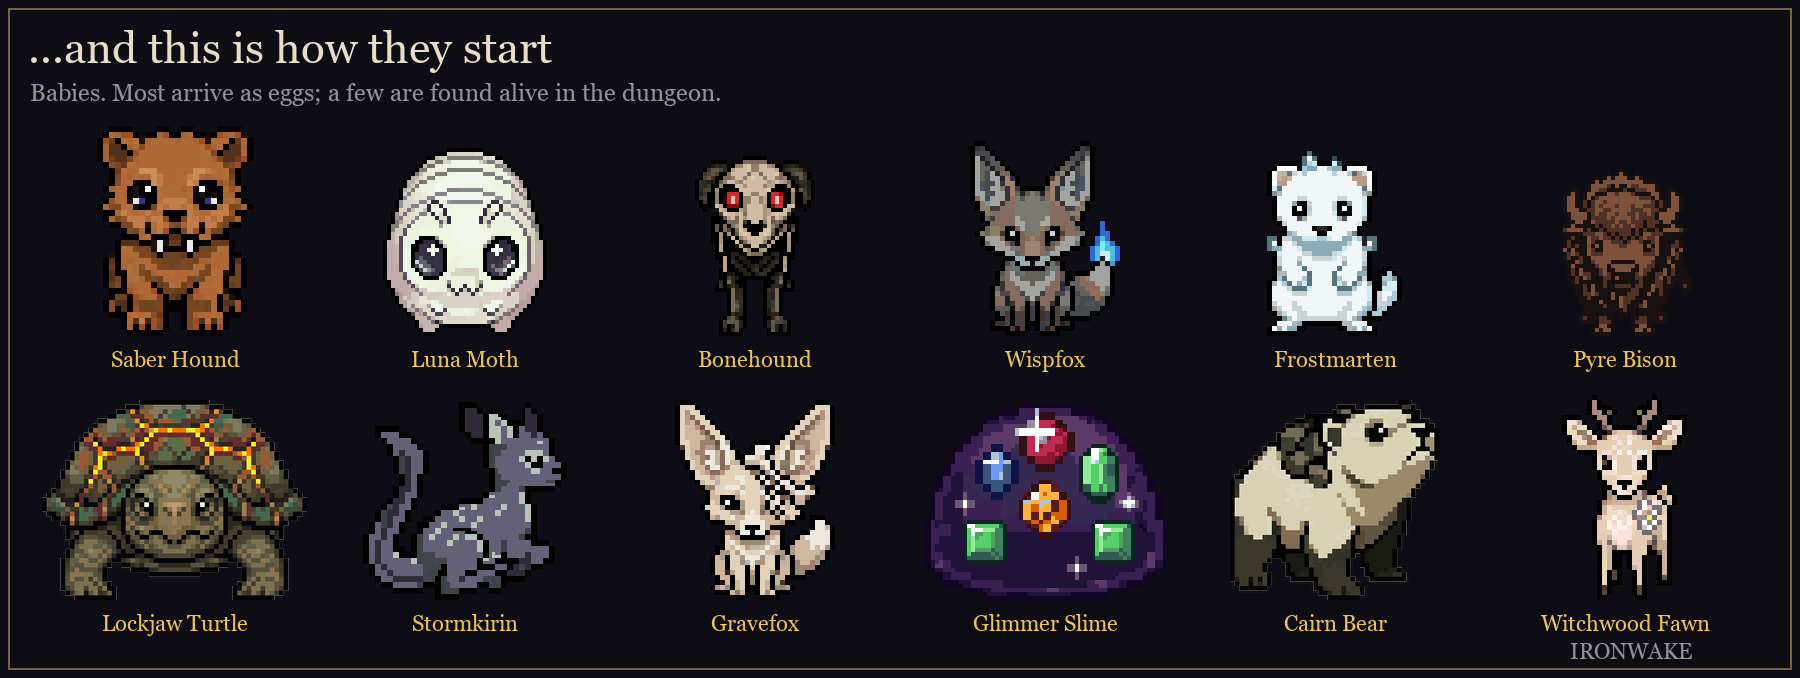
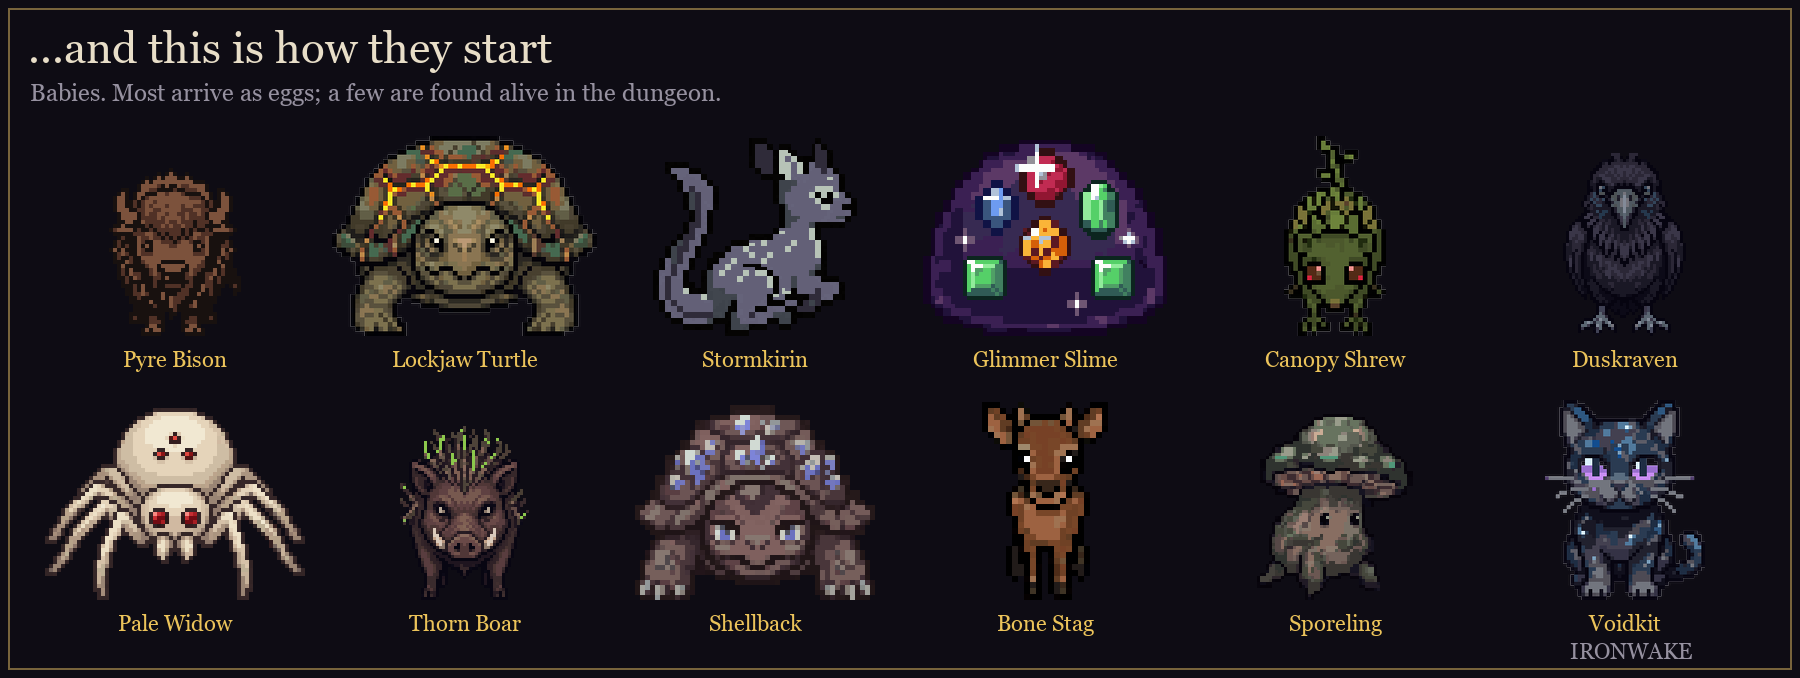
Social posts: creature lineups + growth strips drawn from one art generation (124px 9-frame batch) so the style reads consistent

diff --git a/Ironwake/tools/make_social_posts.py b/Ironwake/tools/make_social_posts.py
@@ -123,17 +123,19 @@ os.makedirs(OUT)
 IMG = os.path.join(OUT, "images"); os.makedirs(IMG)
 
 # ---- images ----------------------------------------------------------------
-pets_a = [("Saber Hound", "saber_hound"), ("Luna Moth", "luna_moth"), ("Bonehound", "bonehound"), ("Wispfox", "wispfox"),
-          ("Frostmarten", "frostmarten"), ("Pyre Bison", "pyre_bison"), ("Lockjaw Turtle", "lockjaw_turtle"), ("Stormkirin", "stormkirin"),
-          ("Gravefox", "gravefox"), ("Glimmer Slime", "glimmer_slime"), ("Cairn Bear", "cairn_bear"), ("Witchwood Fawn", "witchwood_fawn")]
+# ONE art generation only (M 08-19: mixing the 64px stills / old pair with the 124px batch
+# showed how mismatched they are) - these are all from the same 124px 9-frame batch.
+pets_a = [("Pyre Bison", "pyre_bison"), ("Lockjaw Turtle", "lockjaw_turtle"), ("Stormkirin", "stormkirin"), ("Glimmer Slime", "glimmer_slime"),
+          ("Canopy Shrew", "canopy_shrew"), ("Duskraven", "duskraven"), ("Pale Widow", "pale_widow"), ("Thorn Boar", "thorn_boar"),
+          ("Shellback", "shellback"), ("Bone Stag", "bone_stag"), ("Sporeling", "sporeling"), ("Voidkit", "voidkit")]
 lineup(os.path.join(IMG, "pets_lineup_adults.png"), "Some of the creatures you can raise", "47 species live in Ironwake's dungeons. Every one can be found, hatched and raised.",
        [(n, spr_png("spr_pet_%s_adult_s" % s)) for n, s in pets_a], cell_h=250, cols=6)
 lineup(os.path.join(IMG, "pets_lineup_babies.png"), "...and this is how they start", "Babies. Most arrive as eggs; a few are found alive in the dungeon.",
        [(n, spr_png("spr_pet_%s_baby_s" % s)) for n, s in pets_a], cell_h=220, cols=6)
-stage_strip(os.path.join(IMG, "stages_saber_hound.png"), "saber_hound", "The Saber Hound")
+stage_strip(os.path.join(IMG, "stages_saber_hound.png"), "bone_stag", "The Bone Stag")
 stage_strip(os.path.join(IMG, "stages_luna_moth.png"), "luna_moth", "The Luna Moth")
 stage_strip(os.path.join(IMG, "stages_pyre_bison.png"), "pyre_bison", "The Pyre Bison")
-stage_strip(os.path.join(IMG, "stages_frostmarten.png"), "frostmarten", "The Frostmarten")
+stage_strip(os.path.join(IMG, "stages_frostmarten.png"), "stormkirin", "The Stormkirin")
 scions = [("Vaultling", "vaultling"), ("Marrow Adder", "marrow_adder"), ("Gaolwyrm", "gaolwyrm"), ("Cinder Newt", "cinder_newt"), ("Magma Leech", "magma_leech"),
           ("Golemite", "golemite"), ("Rimefox", "rimefox"), ("Crypt Bat", "crypt_bat"), ("Hoarfrost Drake", "hoarfrost_drake")]
 lineup(os.path.join(IMG, "scions_lineup.png"), "Scions - the bosses' own kin", "Nine creatures only a boss can drop. Each one has a signature move nobody else has.",
@@ -220,7 +222,7 @@ write(D(2), 2, "Three stages",
 
 Raise one far enough and it can cross into a fourth - Awakened - with a permanent gift of your choosing.
 
-This is the Saber Hound.""", I("stages_saber_hound.png"))
+This is the Bone Stag.""", I("stages_saber_hound.png"))
 write(D(2), 3, "Found alive",
 """Not every creature comes from an egg.
 
@@ -258,7 +260,7 @@ Walk the grounds, feed them, toss a crumb in the pond, stack a stone on the cair
 write(D(4), 2, "Feeding + favored treats",
 """Feeding is simple: basic feed grows them, good food grows them faster, treats build the bond.
 
-Every species has a favored treat. Get it right and the bond jumps. A Frostmarten will chew a Frost-Root for hours.""", I("stages_frostmarten.png"))
+Every species has a favored treat. Get it right and the bond jumps. A Stormkirin will wait out a storm for the right one.""", I("stages_frostmarten.png"))
 write(D(4), 3, "Bond",
 """Bond matters.
 
